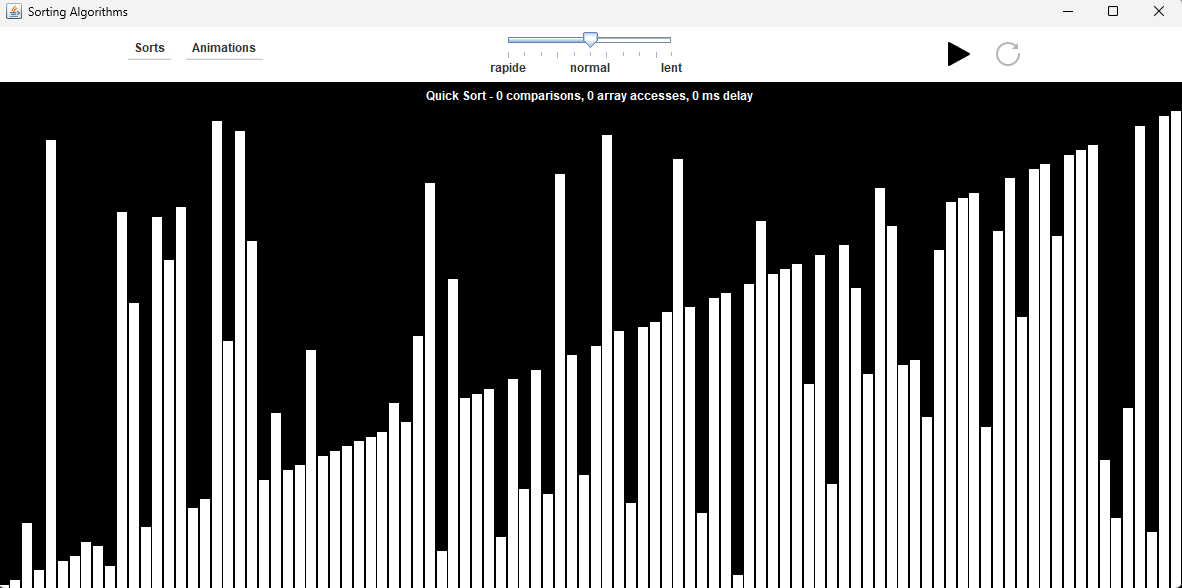
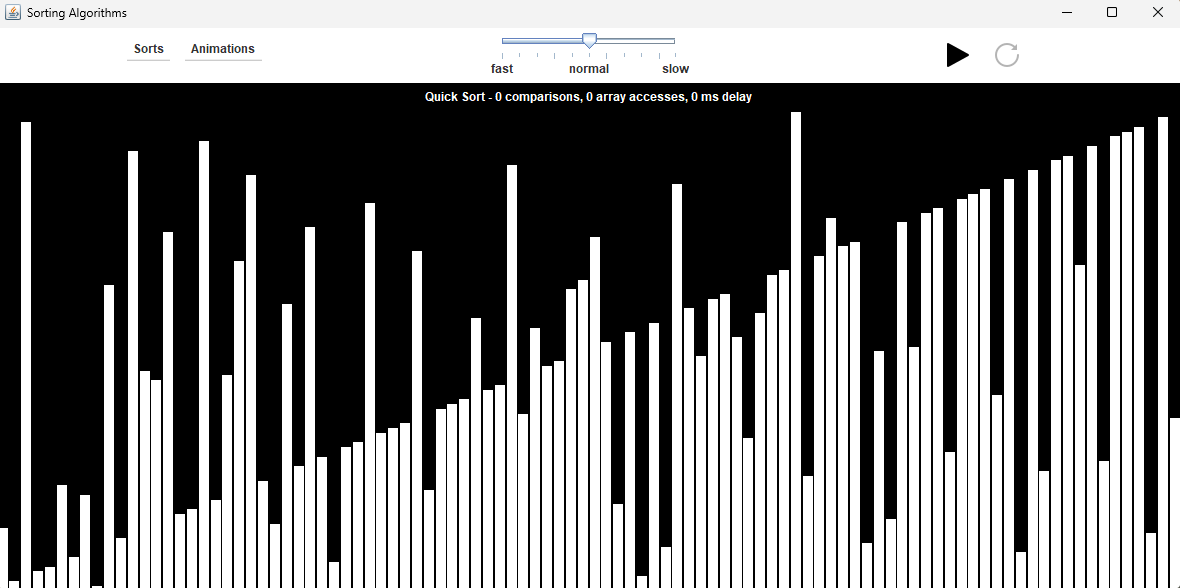
update slider tags + update screenshots

diff --git a/src/main/controller/ControllerSlider.java b/src/main/controller/ControllerSlider.java
@@ -24,9 +24,9 @@ public class ControllerSlider extends JPanel implements ChangeListener {
         this.as = as;
         this.speedSlider = new JSlider(1, 11);
         Hashtable<Integer, JLabel> labelTable = new Hashtable<>();
-        labelTable.put(1, new JLabel("rapide"));
+        labelTable.put(1, new JLabel("fast"));
         labelTable.put(6, new JLabel("normal"));
-        labelTable.put(11, new JLabel("lent"));
+        labelTable.put(11, new JLabel("slow"));
         this.speedSlider.setLabelTable(labelTable);
         this.speedSlider.setPaintTrack(true); 
         this.speedSlider.setPaintTicks(true); 
